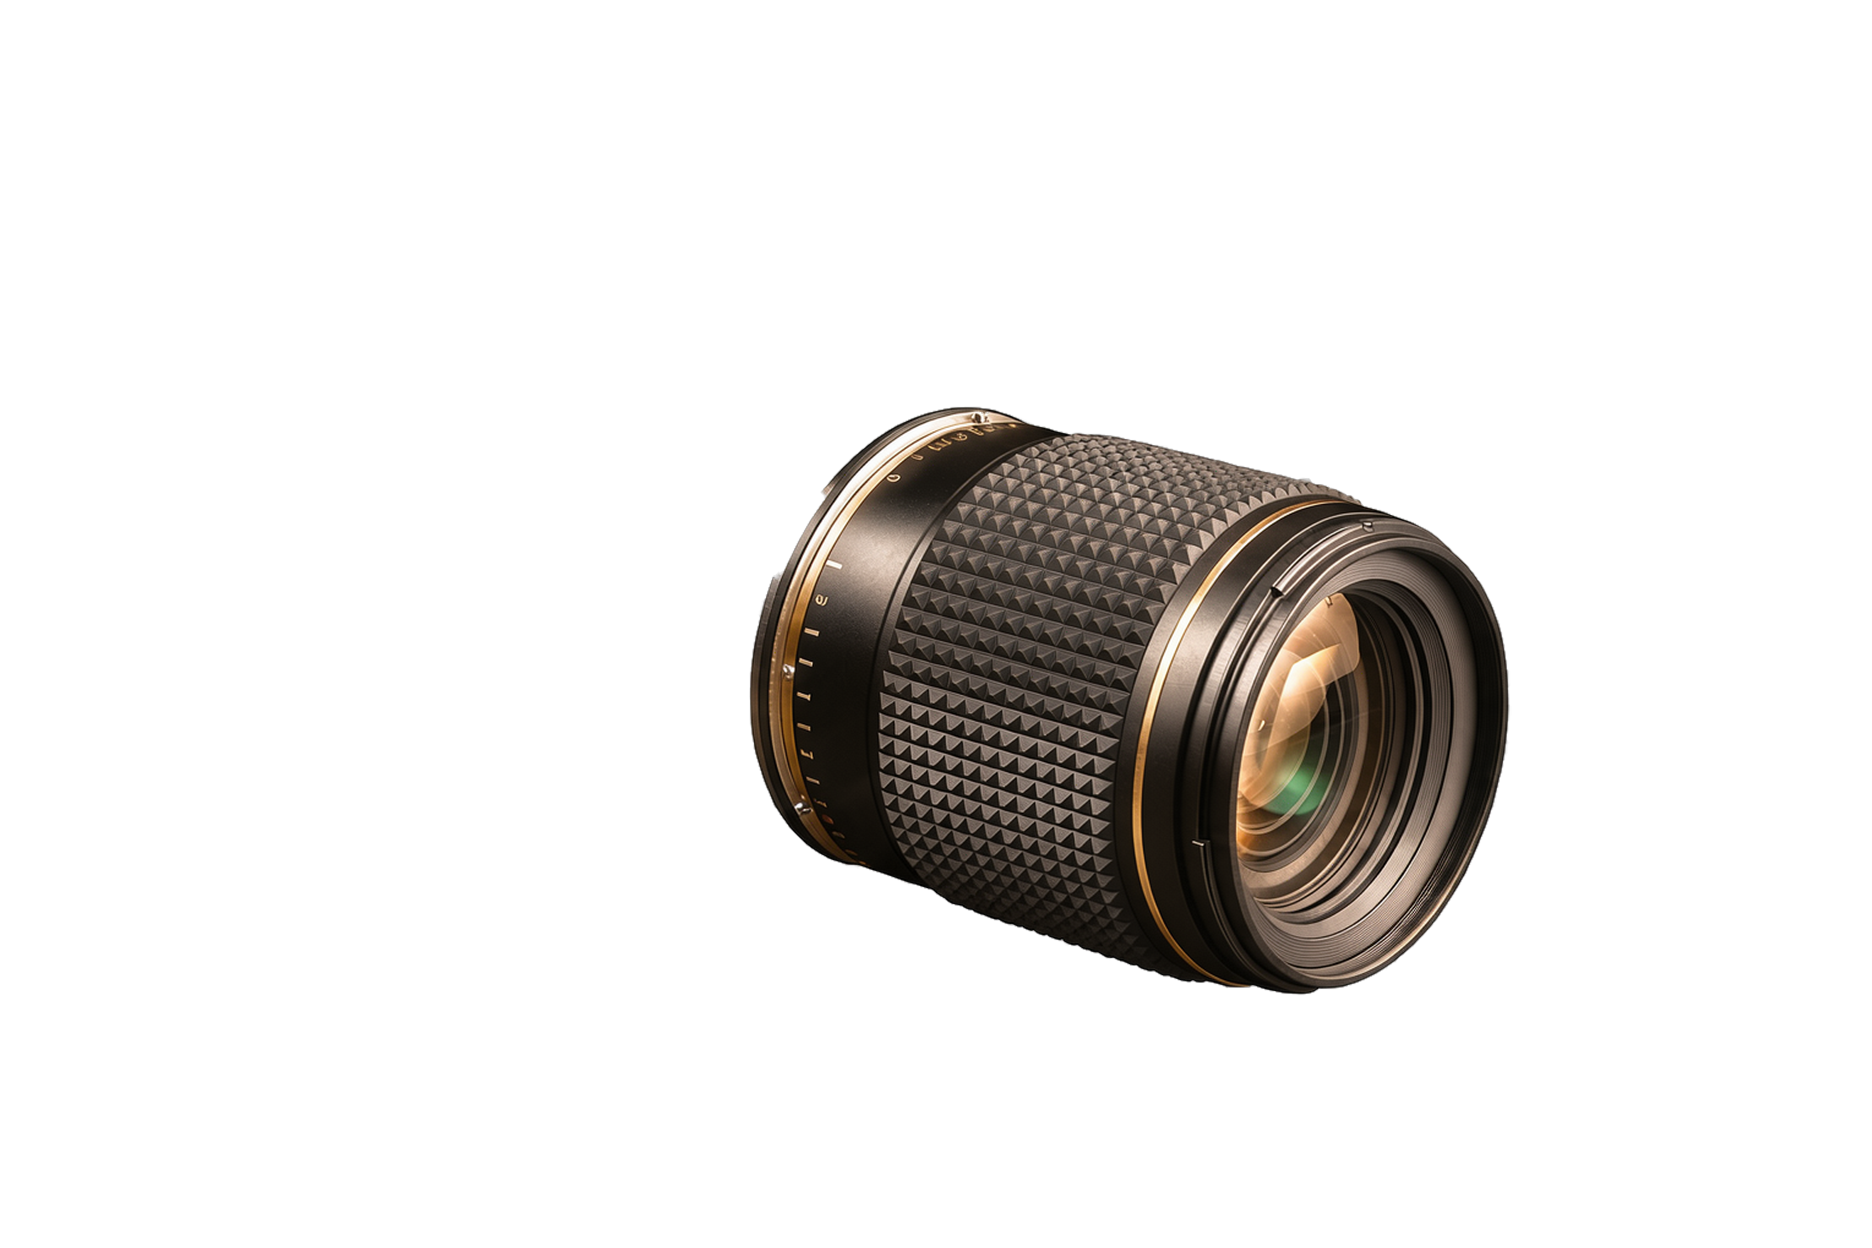
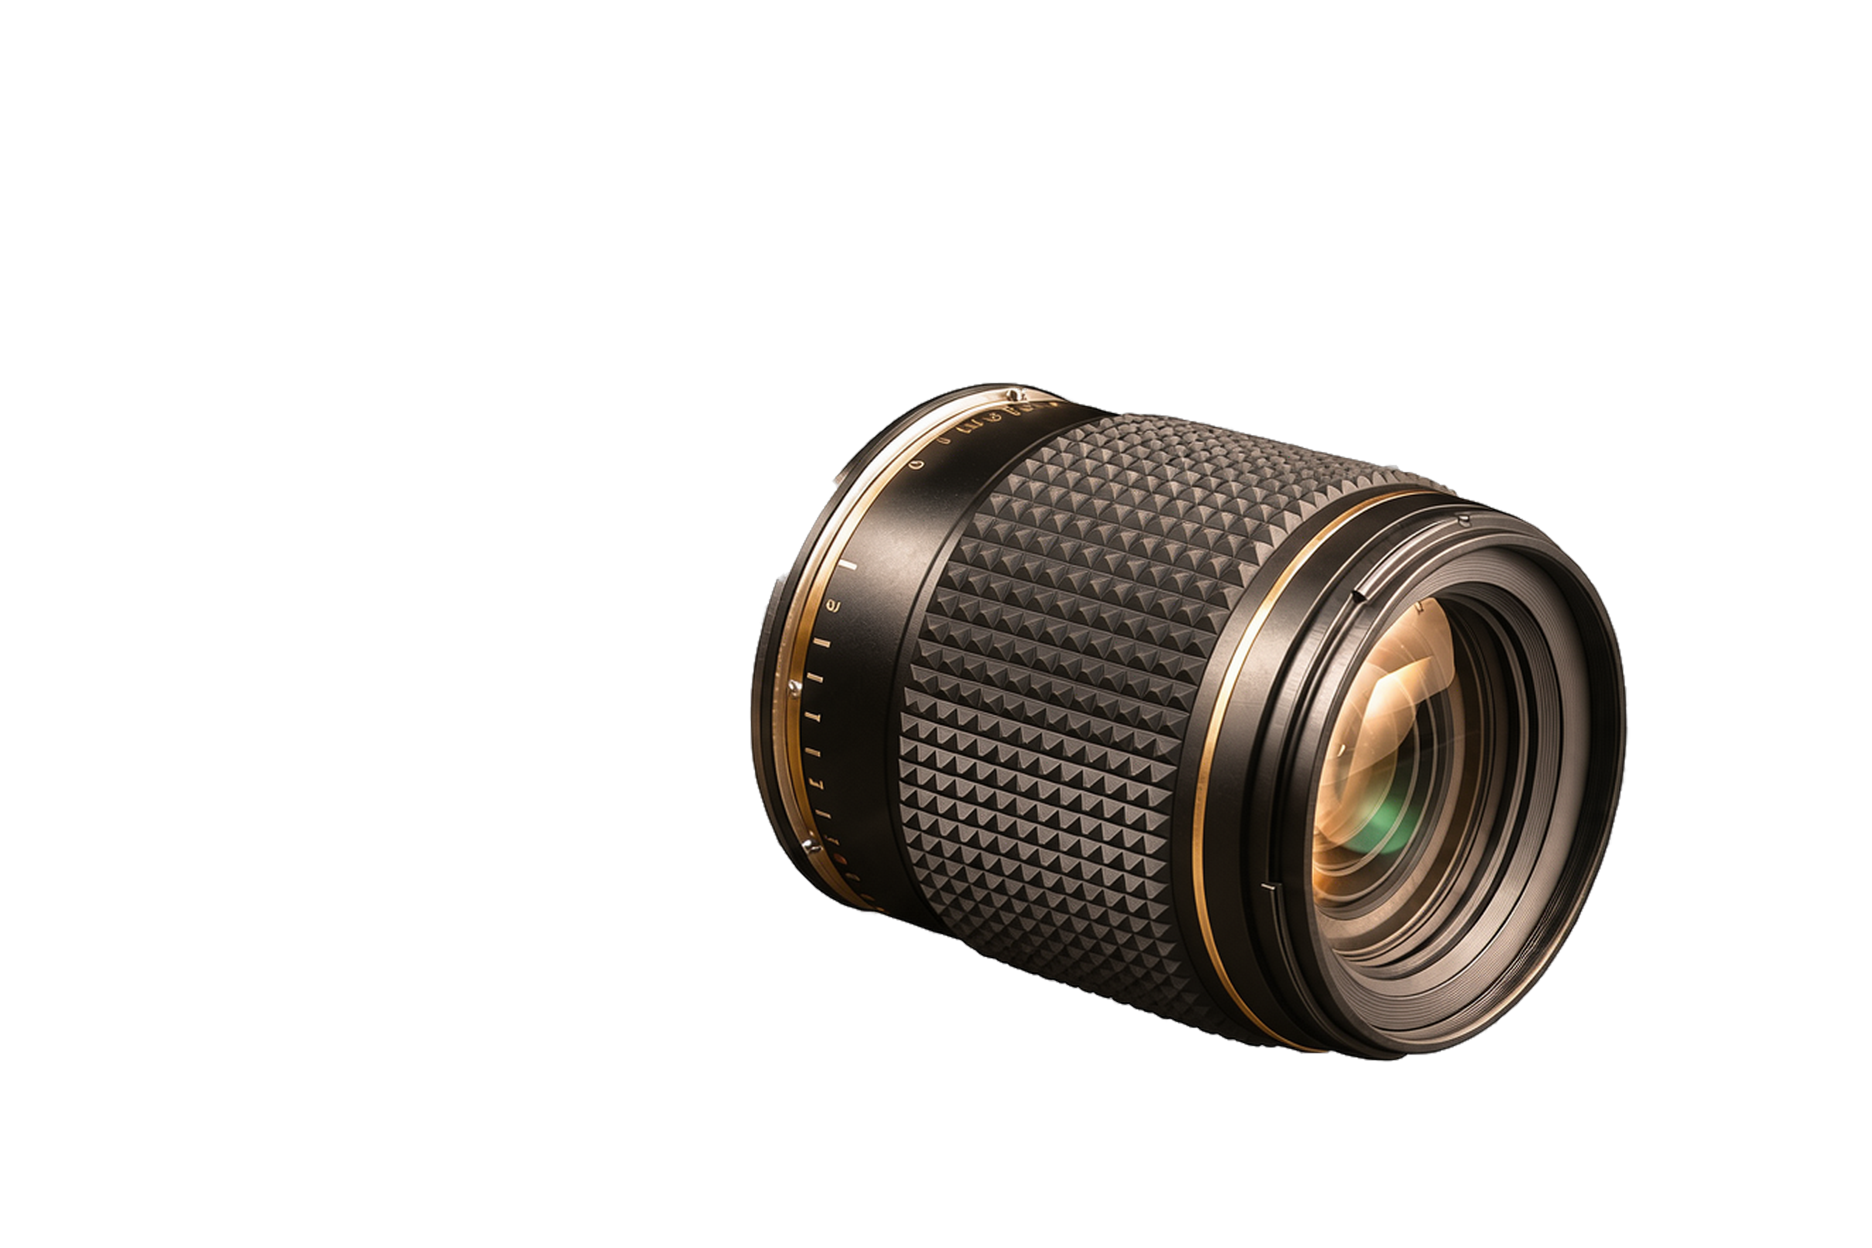
Refit 50 and 85 by rear-ring outline matching
Claude-Session: https://claude.ai/code/session_01Grq52NYiARd2qrZgD6wx5X

Changed region(s): [[0.4028, 0.2812, 0.8675, 0.875]]

diff --git a/tools/fit_lens.py b/tools/fit_lens.py
@@ -1,24 +1,43 @@
-"""Fit a keyed lens cut-out to the hero body's mount by matching its rear end to the 24-70's.
+"""Fit a keyed lens cut-out to the hero body's mount.
 
-python3 tools/fit_lens.py lens-cut.png out.png [--ref design/renders/lenses/lens-2470-cut.png]
+Matches the top and bottom silhouette edges of the rear part of the lens (the mount ring and
+first barrel section) against the reference 24-70, searching scale and offset.
+python3 tools/fit_lens.py lens-cut.png out.png [--ref design/renders/lenses/lens-2470-cut.png] [--span 260]
 """
 import argparse
 import numpy as np
 from PIL import Image
 
-def rear(img):
-    a = np.asarray(img)[..., 3] > 128
-    xs = np.where(a.any(0))[0]; x0 = xs.min()
-    ys = np.where(a[:, x0:x0 + 30].any(1))[0]
-    return x0, ys.min(), ys.max()
+def edges(alpha):
+    m = alpha > 128
+    cols = m.any(0); top = np.full(m.shape[1], np.nan); bot = np.full(m.shape[1], np.nan)
+    idx = np.where(cols)[0]
+    top[idx] = m[:, idx].argmax(0); bot[idx] = m.shape[0] - 1 - m[::-1, idx].argmax(0)
+    return idx.min(), top, bot
 
 ap = argparse.ArgumentParser(); ap.add_argument('src'); ap.add_argument('out')
-ap.add_argument('--ref', default='design/renders/lenses/lens-2470-cut.png')
+ap.add_argument('--ref', default='design/renders/lenses/lens-2470-cut.png'); ap.add_argument('--span', type=int, default=260)
 a = ap.parse_args()
-ref = Image.open(a.ref); im = Image.open(a.src).convert('RGBA'); W, H = im.size
-zx, zt, zb = rear(ref); nx, nt, nb = rear(im)
-s = (zb - zt) / (nb - nt)
+ref = np.asarray(Image.open(a.ref))[..., 3]; im = Image.open(a.src).convert('RGBA'); W, H = im.size
+src = np.asarray(im)[..., 3]
+rx0, rtop, rbot = edges(ref); sx0, stop, sbot = edges(src)
+xs = np.arange(rx0 + 6, rx0 + a.span)          # reference rear region
+best = None
+for s in np.arange(0.85, 1.6, 0.005):
+    # source x that maps onto each reference x, assuming rear-left points coincide (refined by dx)
+    for dx in range(-12, 13, 2):
+        sxs = sx0 + (xs - rx0 - dx) / s
+        ok = (sxs >= 0) & (sxs < W - 1)
+        if ok.sum() < len(xs) * 0.8: continue
+        st = np.interp(sxs[ok], np.arange(W), np.nan_to_num(stop, nan=1e9))
+        sb = np.interp(sxs[ok], np.arange(W), np.nan_to_num(sbot, nan=-1e9))
+        # choose dy to align the means, then score shape mismatch
+        rt, rb = rtop[xs[ok]], rbot[xs[ok]]
+        dy = np.nanmean(np.r_[rt - st * s, rb - sb * s])
+        err = np.nanmean(np.abs(rt - (st * s + dy))) + np.nanmean(np.abs(rb - (sb * s + dy)))
+        if best is None or err < best[0]: best = (err, s, dx, dy)
+err, s, dx, dy = best
 big = im.resize((round(W * s), round(H * s)), Image.LANCZOS)
-ox = zx - round(nx * s); oy = round((zt + zb) / 2 - (nt + nb) / 2 * s)
+ox = round(rx0 + dx - sx0 * s); oy = round(dy)
 c = Image.new('RGBA', (W, H), (0, 0, 0, 0)); c.paste(big, (ox, oy), big); c.save(a.out)
-print(f'scale {s:.3f}  offset ({ox},{oy})  bbox {c.getbbox()}')
+print(f'scale {s:.3f}  offset ({ox},{oy})  edge error {err:.1f}px  bbox {c.getbbox()}')

diff --git a/design/renders/lenses/FIT.md b/design/renders/lenses/FIT.md
@@ -2,3 +2,6 @@
 - **Master body:** `../dslr-hero-nolens.png` (1872×1248). This is the hero shot with the lens removed. Lens-off body plus `lens-2470-cut.png` recombine into `../dslr-front-3q.png` almost exactly (mean diff about 2/255), so the 24-70 is perfectly aligned already.
 - **Lens angle that fits:** the original "as if just pulled straight off the camera" wording, with the axis pointing lower right and toward the viewer and the full barrel side visible (about 40°). `lens-50.png` fits at height = 1.02 × the zoom's rear-end height (630 px), top-left at (748, 380).
 - `../dslr-3q-nolens.png` (the front-facing mount) is no longer the master. The 15° lens rule only applied to that body.
+
+## Fitting (16 Oct, final method)
+`tools/key_checker.py` recovers alpha from checkerboard exports, then `tools/fit_lens.py` scales and places each lens by matching the top and bottom silhouette of its rear section to the 24-70. Results: 50 mm at scale 1.415 (edge error 24 px, visually seated), 85 mm at 0.995 (2 px). The 135 mm is left as generated: it was already aligned, and refitting pushed it off the frame.
